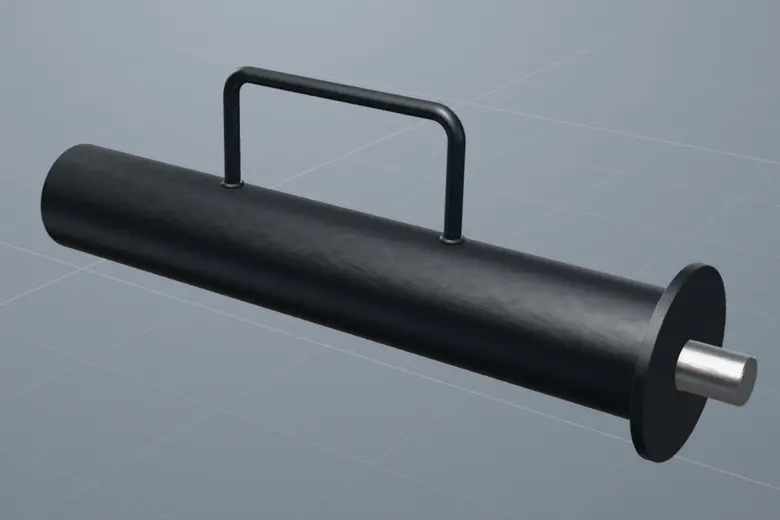
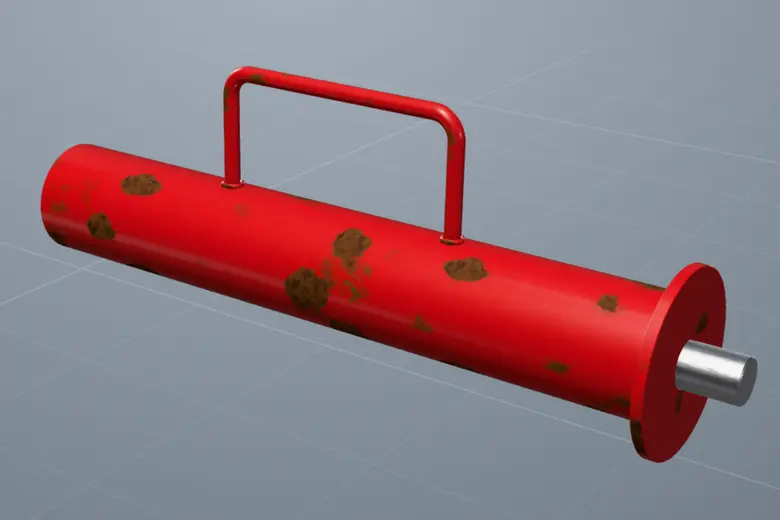
Core knocker NQ 15222420 : corps et plaque peints en rouge Machines Roger avec un peu de rouille (demandes du client) ; finition de peinture écaillée et rouillée dans le moteur de matériaux (redRust, paintRust), fiche, vignette et README mis à jour
Claude-Session: https://claude.ai/code/session_015N4WstzVg7m543uqdMkpco

Changed region(s): [[0.0308, 0.1231, 0.9538, 0.8923]]

diff --git a/src/viewer/materials.js b/src/viewer/materials.js
@@ -19,6 +19,9 @@ const FIN = {
   // Peinture sur tôle : peau d'orange et ondulation discrètes (une tôle peinte
   // reste lisse en photo ; un relief marqué ferait « peinture martelée »).
   paint: { fine: 0.018, wave: 0.005, rough: 0.16, tint: 0.07, fs: 14, cs: 0.9, env: 1 },
+  // Peinture écaillée : taches de rouille où la peinture a sauté. rust = part de la surface
+  // touchée (0 à 1, à peu près), rs = fréquence des taches (1/m).
+  paintRust: { fine: 0.018, wave: 0.005, rough: 0.16, tint: 0.07, fs: 14, cs: 0.9, env: 1, rust: 0.28, rs: 13 },
   paintSatin: { fine: 0.026, wave: 0.007, rough: 0.2, tint: 0.09, fs: 14, cs: 0.9, env: 1 },
   // Peinture noire : se lit surtout par ses reflets (réflecteurs renforcés).
   paintDark: { fine: 0.02, wave: 0.005, rough: 0.16, tint: 0.07, fs: 14, cs: 0.9, env: 1.8 },
@@ -42,6 +45,8 @@ const PAINT = { metalness: 0, roughness: 0.42, specularIntensity: 1, clearcoat: 
 const defs = {
   red: { ...PAINT, color: 0xb5121a },
   redDark: { ...PAINT, color: 0x7a0c12, roughness: 0.46 },
+  // Rouge d'un outil qui a servi : peinture écaillée par endroits, acier rouillé dessous.
+  redRust: { ...PAINT, color: 0xb5121a, fin: 'paintRust' },
   // Noir : gris très sombre verni ; les reflets du studio dessinent les faces.
   black: { ...PAINT, color: 0x2c2e33, roughness: 0.42, clearcoat: 0.85, clearcoatRoughness: 0.16, fin: 'paintDark' },
   rubber: { color: 0x1f2022, metalness: 0, roughness: 0.78, specularIntensity: 0.55, fin: 'rubber' },
@@ -243,6 +248,31 @@ diffuseColor.rgb *= 1.0 + uSurfAmp.w * ( sBlot * 1.2 + sGrain * 0.4 );
 #include <roughnessmap_fragment>
 roughnessFactor = clamp( roughnessFactor * ( 1.0 + uSurfAmp.z * ( sBlot * 1.6 + sGrain * 0.8 ) ), 0.02, 1.0 );`;
 
+// Rouille (finition avec rust) : taches aux bords déchiquetés, brun mat et rugueux, auréole
+// ternie autour ; rien sur les faces de coupe (faces arrière), qui gardent la teinte de la pièce.
+const RUST_FRAG = /* glsl */`
+vec4 rX = texture2D( uSurfTex, sP.zy * uSurfRust.y + 0.23 );
+vec4 rY = texture2D( uSurfTex, sP.xz * uSurfRust.y + 0.71 );
+vec4 rZ = texture2D( uSurfTex, sP.xy * uSurfRust.y + 0.47 );
+// Second relevé, plus large et tourné : les taches ne se répètent pas le long d'une pièce.
+vec2 rG = vec2( 0.37, 0.43 ) * uSurfRust.y;
+vec4 qX = texture2D( uSurfTex, sP.yz * rG + 0.61 );
+vec4 qY = texture2D( uSurfTex, sP.zx * rG + 0.17 );
+vec4 qZ = texture2D( uSurfTex, sP.yx * rG + 0.83 );
+float rB = dot( sW, vec3( rX.b, rY.b, rZ.b ) );
+float qB = dot( sW, vec3( qX.b, qY.b, qZ.b ) );
+float rA = dot( sW, vec3( rX.a, rY.a, rZ.a ) );
+float rField = 0.5 + ( rB + qB - 1.0 ) * 0.8 + ( rA - 0.5 ) * 0.14 + sGrain * 0.06;
+float rSeuil = 1.0 - uSurfRust.x;
+float rFace = gl_FrontFacing ? 1.0 : 0.0;
+float sRust = smoothstep( rSeuil, rSeuil + 0.035, rField ) * rFace;
+float rHalo = smoothstep( rSeuil - 0.08, rSeuil, rField ) * rFace - sRust;
+vec3 rCol = mix( vec3( 0.032, 0.014, 0.008 ), vec3( 0.125, 0.043, 0.016 ), clamp( rA * 1.4 - 0.2 + sGrain, 0.0, 1.0 ) );
+diffuseColor.rgb = mix( diffuseColor.rgb, diffuseColor.rgb * 0.55 + vec3( 0.03, 0.01, 0.0 ), rHalo * 0.8 );
+diffuseColor.rgb = mix( diffuseColor.rgb, rCol, sRust );
+roughnessFactor = mix( roughnessFactor, 0.94, sRust );
+sDelta *= 1.0 + 5.0 * sRust;`;
+
 /** Injecte le relief de surface dans un shader standard / physique. */
 const GRAIN_VERT = /* glsl */`
 attribute vec3 aGrain;
@@ -272,12 +302,14 @@ function injectSurface(shader, fin) {
   shader.uniforms.uSurfFreq = { value: new THREE.Vector3(fin.fs, fin.cs, fin.stretch || 1) };
   shader.uniforms.uSurfEnv = { value: fin.env ?? 1 };
   const G = !!fin.grain;
+  const R = !!fin.rust;
+  if (R) shader.uniforms.uSurfRust = { value: new THREE.Vector2(fin.rust, fin.rs || 9) };
   shader.vertexShader = shader.vertexShader
     .replace('#include <common>', SURF_VERT_PARS + (G ? GRAIN_VERT : ''))
     .replace('#include <begin_vertex>', SURF_VERT + (G ? '\nvGrain = aGrain;' : ''));
   shader.fragmentShader = shader.fragmentShader
-    .replace('#include <common>', SURF_FRAG_PARS + (G ? '\nvarying vec3 vGrain;\nuniform float uSurfGrain;' : ''))
-    .replace('#include <roughnessmap_fragment>', SURF_FRAG + (G ? GRAIN_FRAG : ''))
+    .replace('#include <common>', SURF_FRAG_PARS + (G ? '\nvarying vec3 vGrain;\nuniform float uSurfGrain;' : '') + (R ? '\nuniform vec2 uSurfRust;' : ''))
+    .replace('#include <roughnessmap_fragment>', SURF_FRAG + (G ? GRAIN_FRAG : '') + (R ? RUST_FRAG : ''))
     .replace('#include <normal_fragment_maps>', `#include <normal_fragment_maps>
 normal = normalize( normal + faceDirection * sDelta );`)
     .replace('#include <clearcoat_normal_fragment_begin>', `#include <clearcoat_normal_fragment_begin>
@@ -290,7 +322,7 @@ normal = normalize( normal + faceDirection * sDelta );`)
 #endif`)
     .replace('#include <lights_physical_fragment>', `#include <lights_physical_fragment>
 #ifdef USE_CLEARCOAT
-  material.clearcoatRoughness = clamp( material.clearcoatRoughness * ( 1.0 + uSurfAmp.z * 2.5 * sBlot ), 0.02, 1.0 );
+  material.clearcoatRoughness = clamp( material.clearcoatRoughness * ( 1.0 + uSurfAmp.z * 2.5 * sBlot ), 0.02, 1.0 );${R ? '\n  material.clearcoat *= 1.0 - sRust;' : ''}
 #endif`);
 }
 
@@ -324,7 +356,7 @@ function setupProgram(m, cap, dir = 1) {
     if (fin) injectSurface(shader, fin);
     if (cap) shader.fragmentShader = shader.fragmentShader.replace('#include <dithering_fragment>', capShader(dir));
   };
-  const key = `${fin ? `surf${fin.grain ? '-grain' : ''}` : ''}${cap ? `-section-cap-${dir}` : ''}`;
+  const key = `${fin ? `surf${fin.grain ? '-grain' : ''}${fin.rust ? '-rust' : ''}` : ''}${cap ? `-section-cap-${dir}` : ''}`;
   m.customProgramCacheKey = () => key;
 }
 

diff --git a/src/models/core-knocker/index.js b/src/models/core-knocker/index.js
@@ -32,6 +32,11 @@ export const BAGUE = { fond: { d: 2.25, t: 1 / 8, trou: 1 + 1 / 32 }, od: 2.375,
 // entre le fond de la bague et le collet (2 3/8 po). Bouts rapprochés.
 export const RESSORT = { fil: 0.113, od: 1.459, actives: 5 };
 
+// Peinture : rouge Machines Roger sur le corps soudé et la plaque, avec un peu de rouille où la
+// peinture a sauté (demandes du client ; les plans ne donnent pas de couleur de surface). La
+// tige, le ressort et la bague restent en acier nu.
+const PEINT = 'redRust';
+
 const SOUDURE_BRAS = 1 / 8; // tout le tour de chaque jambe (plan du corps)
 const SOUDURE_PLAQUE = 1 / 4; // tout le tour, plaque sur tube (plan d'assemblage)
 
@@ -170,8 +175,8 @@ function ressort(api, material) {
 /** Corps NQ 15222405 : tube et poignée soudée. */
 export function P02(api) {
   const S = api.S;
-  api.part('1', tube(S, 'darkSteel'), [0, 0, 0]);
-  api.part('2', bras(api, 'darkSteel'), [0, 0.09, 0]);
+  api.part('1', tube(S, PEINT), [0, 0, 0]);
+  api.part('2', bras(api, PEINT), [0, 0.09, 0]);
   return { view: { dir: [0.75, 0.5, 1] } };
 }
 
@@ -183,7 +188,7 @@ export function P01(api) {
   api.part('5', axe(bague(S, 'zinc')), [0.1, 0, 0]);
   api.part('4', axe(ressort(api, 'blackOxide')), [0.19, 0, 0]);
   api.part('2', axe(tige(S, 'steel')), [0.31, 0, 0]);
-  api.part('3', axe(plaque(S, 'darkSteel')), [0.37, 0, 0]);
+  api.part('3', axe(plaque(S, PEINT)), [0.37, 0, 0]);
   return { view: { dir: [0.75, 0.5, 1] } };
 }
 

diff --git a/README.md b/README.md
@@ -168,8 +168,12 @@ pièces (numéro, quantité, page du manuel).
   qu'ils ne cotent pas (diamètre intérieur du tube, tige, bague, collet, fil du
   ressort, pliage de la poignée) est relevé à l'échelle sur les tracés
   vectoriels des PDF. Le tube est coté Ø 2 11/16 po, cote arrondie au 1/16 :
-  le tracé donne 2,715 po, valeur du modèle. Montré en acier nu (les plans ne
-  précisent pas de couleur). Contrôle chiffré :
+  le tracé donne 2,715 po, valeur du modèle. Corps et plaque peints en rouge Machines
+  Roger, avec un peu de rouille où la peinture a sauté, à la demande du client
+  (les plans ne précisent pas de couleur) ; tige, ressort et bague en acier nu.
+  La rouille est une finition du moteur de matériaux (`redRust`, finition
+  `paintRust` de `src/viewer/materials.js` : part de surface touchée `rust`,
+  fréquence des taches `rs`), réutilisable pour d'autres pièces. Contrôle chiffré :
   `node scripts/check-core-knocker.mjs` compare 33 mesures du modèle aux plans.
   Masses : le tube seul donne 6,25 lb (6,3 lb au cartouche du corps) et
   l'assemblage sans la poignée ni le ressort 9,3 lb (9,4 lb au cartouche) ; les
